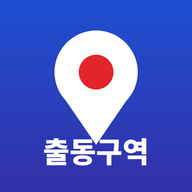
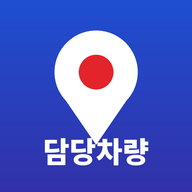
제목 변경: 구역별 담당차량 조회
Claude-Session: https://claude.ai/code/session_01CYrUzfUsWCXVfUkM9NnatK

Changed region(s): [[0.2188, 0.7188, 0.7812, 0.875]]

diff --git a/index.html b/index.html
@@ -2,17 +2,17 @@
 <html lang="ko" data-theme="light" style="color-scheme:light">
 <head>
 <meta charset="utf-8">
-<meta name="app-ver" content="5.5">
+<meta name="app-ver" content="5.6">
 <meta name="color-scheme" content="only light">
 <meta name="theme-color" content="#1f4fd1">
 <link rel="manifest" href="manifest.json">
 <link rel="apple-touch-icon" href="icon-192.png">
 <meta name="apple-mobile-web-app-capable" content="yes">
 <meta name="mobile-web-app-capable" content="yes">
-<meta name="apple-mobile-web-app-title" content="출동구역">
+<meta name="apple-mobile-web-app-title" content="담당차량">
 <meta http-equiv="Cache-Control" content="no-cache">
 <meta name="viewport" content="width=device-width,initial-scale=1,viewport-fit=cover">
-<title>출동차량 구역 조회</title>
+<title>구역별 담당차량 조회</title>
 <meta name="claude:viewport-fit-sides" content="cover">
 <link rel="preconnect" href="https://fonts.googleapis.com">
 <link rel="stylesheet" href="https://fonts.googleapis.com/css2?family=Noto+Sans+KR:wght@400;500;700;900&family=IBM+Plex+Mono:wght@500&display=swap">
@@ -200,7 +200,7 @@ header p{font-size:14.5px;margin-top:8px}
     <div class="topbar"><div class="eyebrow"><span class="s1">S-1</span>에스원 북서울지사</div>
       <div class="tools"><button type="button" class="tool" id="cpurl"><svg viewBox="0 0 24 24" aria-hidden="true"><path d="M10 14a5 5 0 0 0 7.1 0l3-3a5 5 0 0 0-7.1-7.1l-1 1"/><path d="M14 10a5 5 0 0 0-7.1 0l-3 3a5 5 0 0 0 7.1 7.1l1-1"/></svg><span>링크 복사</span></button>
       <button type="button" class="tool inst" id="inst" hidden><svg viewBox="0 0 24 24" aria-hidden="true"><path d="M12 3v12"/><path d="M7 10l5 5 5-5"/><path d="M5 21h14"/></svg><span>앱 설치</span></button></div></div>
-    <h1>출동차량 구역 조회</h1>
+    <h1>구역별 담당차량 조회</h1>
     <p>주소·지번·건물명을 입력하면 담당 출동차량과 컨설턴트를 바로 찾아드려요.</p>
     <div class="legend" id="legend"></div>
   </header>
@@ -248,7 +248,7 @@ header p{font-size:14.5px;margin-top:8px}
   </div>
   </details>
 
-  <footer>기준: 지사 벽면 관리구역 지도의 빨간 경계선을 OpenStreetMap 행정동 경계와 맞춰 판정(오차 약 100m 이내) · 버전 5.5 · 2026.10</footer>
+  <footer>기준: 지사 벽면 관리구역 지도의 빨간 경계선을 OpenStreetMap 행정동 경계와 맞춰 판정(오차 약 100m 이내) · 버전 5.6 · 2026.10</footer>
 </div>
 
 <script>
@@ -792,7 +792,7 @@ $("splits").innerHTML=Object.entries(R).map(([dn,r])=>{
 // ── 링크 복사 · 웹앱 설치 ──
 const APP_URL="https://ijaesig04-hash.github.io/patrol/";
 function toast(t){const el=$("toast"); el.textContent=t; el.classList.add("on"); clearTimeout(toast._t); toast._t=setTimeout(()=>el.classList.remove("on"),2200);}
-$("cpurl").onclick=async()=>{ try{ if(navigator.share&&/Android|iPhone|iPad/i.test(navigator.userAgent)){ await navigator.share({title:"출동차량 구역 조회",url:APP_URL}); return; } }catch(e){ if(e&&e.name==="AbortError") return; }
+$("cpurl").onclick=async()=>{ try{ if(navigator.share&&/Android|iPhone|iPad/i.test(navigator.userAgent)){ await navigator.share({title:"구역별 담당차량 조회",url:APP_URL}); return; } }catch(e){ if(e&&e.name==="AbortError") return; }
   try{ await navigator.clipboard.writeText(APP_URL); toast("링크를 복사했어요"); }
   catch(e){ const ta=document.createElement("textarea"); ta.value=APP_URL; document.body.appendChild(ta); ta.select(); try{document.execCommand("copy"); toast("링크를 복사했어요");}catch(_){ prompt("아래 주소를 복사하세요",APP_URL);} ta.remove(); } };
 (function(){
